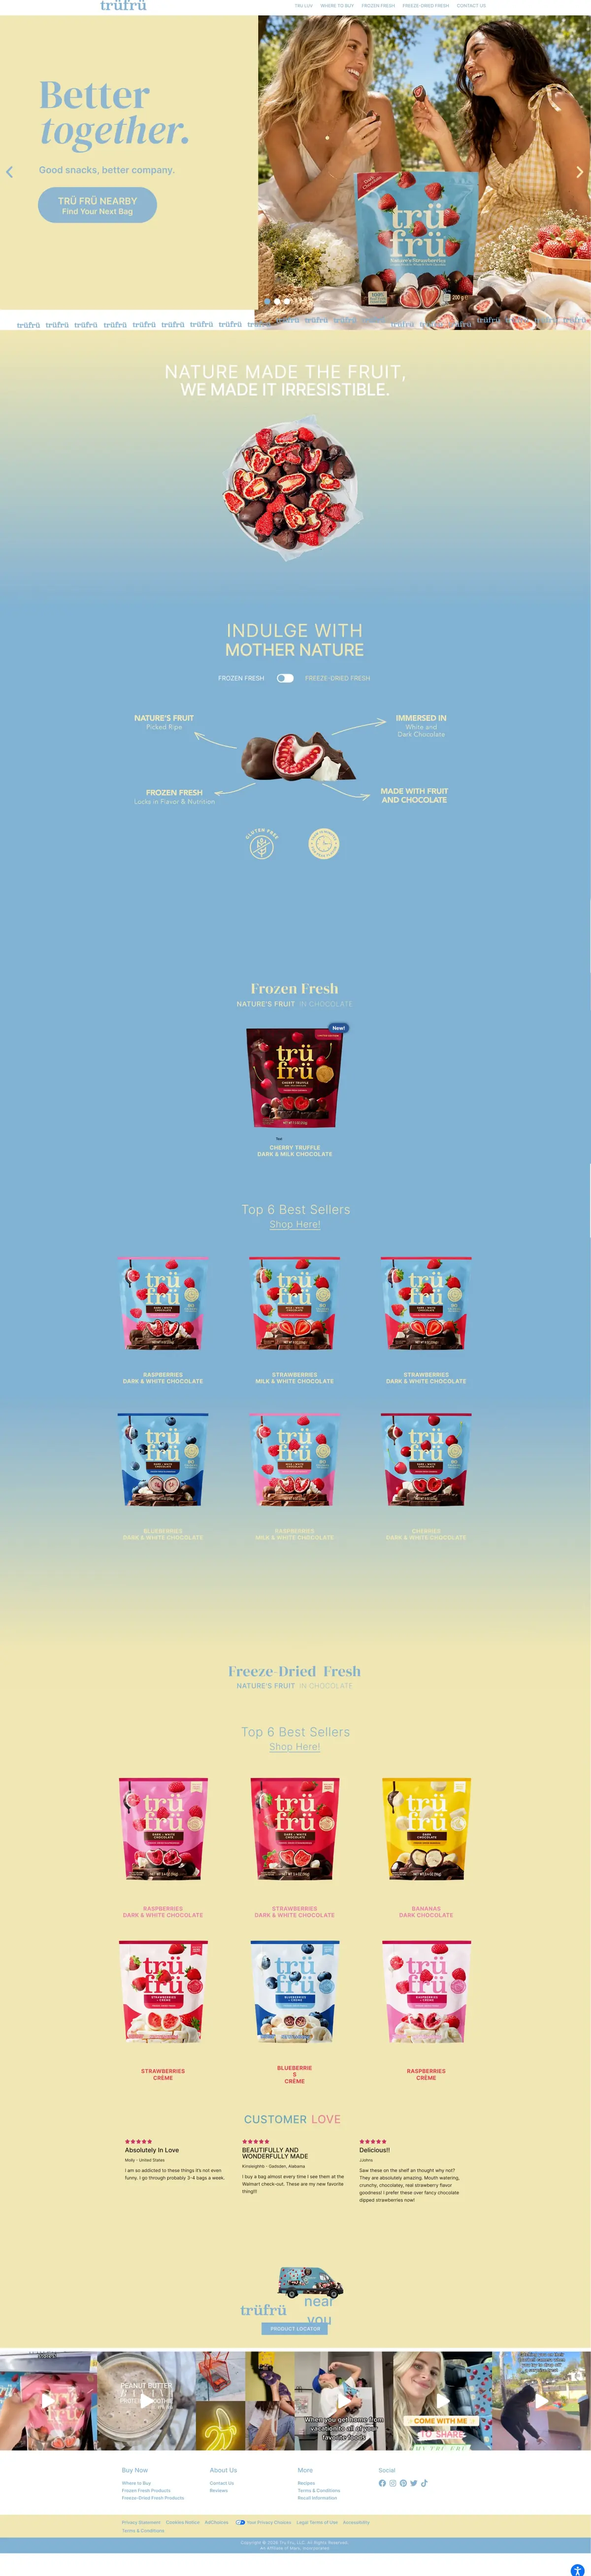
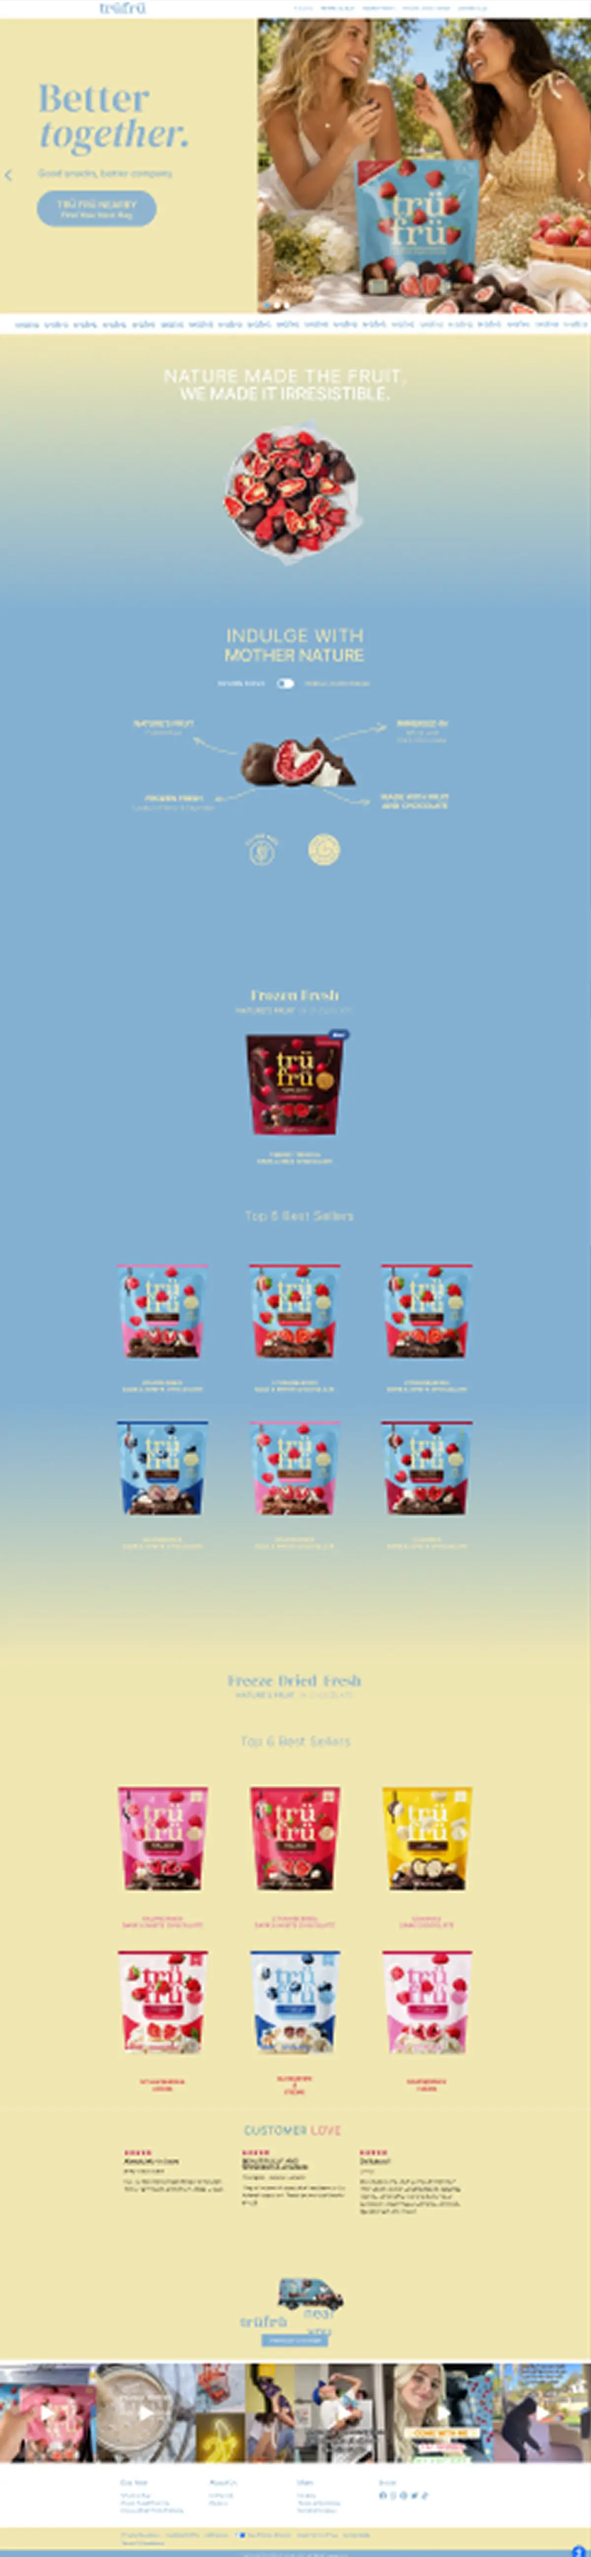
Replace TruFru screenshot and remove visual palette section from About
Claude-Session: https://claude.ai/code/session_013o6CwJQ5fvsoSN9hWGQvRM

diff --git a/app.js b/app.js
@@ -33,7 +33,7 @@ duolingo:{name:'Duolingo',centerCup:true,label:'Onboarding & learning',intro:'Ex
   'Thank you',
   'Appendix — Sources'
 ]},
-trufru:{name:'TruFru',label:'Brand & shopping',intro:'Translating a playful product into a clearer, more delicious digital experience.',focus:'Brand expression and information hierarchy',format:'Website redesign prototype',description:'A consumer product teardown and website redesign examining how product information and brand personality can work together in a digital experience.',questions:['How quickly can visitors understand the product and its appeal?','How can visual hierarchy make exploration more intuitive?'],status:'The redesign prototype has not been added yet.',original:{src:'assets/trufru-redesign/landing.webp',width:1200,height:5223,caption:'TruFru landing page',alt:'Full-page screenshot of the TruFru landing page: a “Better together” hero with a lifestyle photo, a frozen-fresh product explainer, top six best sellers for frozen and freeze-dried lines, customer reviews, a store locator, social videos, and the footer.'},notes:[['Product / vision','Premium frozen and freeze-dried snack experience; make it feel elevated and easy to shop.'],['Problem','Product discovery could feel more intentional: stronger calls to action (e.g. “shop best sellers”, “explore new flavors”) and more lifestyle visuals showing how the products fit into everyday snacking.'],['Who','Snack lovers! People looking for convenient snacks.'],['Goals','Make the product the main visual focus, improve product discovery and website navigation (keep it simple), and encourage people to buy.']]}
+trufru:{name:'TruFru',label:'Brand & shopping',intro:'Translating a playful product into a clearer, more delicious digital experience.',focus:'Brand expression and information hierarchy',format:'Website redesign prototype',description:'A consumer product teardown and website redesign examining how product information and brand personality can work together in a digital experience.',questions:['How quickly can visitors understand the product and its appeal?','How can visual hierarchy make exploration more intuitive?'],status:'The redesign prototype has not been added yet.',original:{src:'assets/trufru-redesign/landing.webp',width:1200,height:5186,caption:'TruFru landing page',alt:'Full-page screenshot of the TruFru landing page: a “Better together” hero with a lifestyle photo, a frozen-fresh product explainer, top six best sellers for frozen and freeze-dried lines, customer reviews, a store locator, social videos, and the footer.'},notes:[['Product / vision','Premium frozen and freeze-dried snack experience; make it feel elevated and easy to shop.'],['Problem','Product discovery could feel more intentional: stronger calls to action (e.g. “shop best sellers”, “explore new flavors”) and more lifestyle visuals showing how the products fit into everyday snacking.'],['Who','Snack lovers! People looking for convenient snacks.'],['Goals','Make the product the main visual focus, improve product discovery and website navigation (keep it simple), and encourage people to buy.']]}
 };
 
 const order = Object.keys(studies);
@@ -164,8 +164,7 @@ function showAbout(origin) {
   openPanel('about', origin);
   render(`<h2 class="about-title" tabindex="-1">Hi, I’m Bella Cha.<br>A taste for the <em>thoughtful.</em></h2>
     <p class="panel-intro">I look closely at the consumer products we use every day, turning design teardowns into focused redesign proposals and full prototypes.</p>
-    <p class="panel-intro">I break down onboarding, information hierarchy, and workflows using a score matrix across simplicity, consistency, and usability.</p>
-    <h3>The visual palette</h3><div class="reference-gallery">${[['cabinet','Watercolor tea cabinet'],['tea','Tea drawings'],['cafe','Sidewalk café sketch'],['book','Illustrated London book cover'],['frames','Hand-drawn gallery frames'],['landscape','Illustrated landscape']].map(([name,alt])=>`<img src="assets/optimized/${name}-reference.webp" alt="${alt}" width="360" height="240" loading="lazy" decoding="async">`).join('')}</div>`, 'About Bella Cha opened.');
+    <p class="panel-intro">I break down onboarding, information hierarchy, and workflows using a score matrix across simplicity, consistency, and usability.</p>`, 'About Bella Cha opened.');
 }
 function showContact(origin) {
   selected = null;

diff --git a/README.md b/README.md
@@ -16,7 +16,7 @@ Open http://localhost:5173. Deploy dist/ to a static host. Artwork and fonts are
 
 ## Navigation and materials
 
-Select a study in the text index or through its branded cup. Both open the same inline reading panel. Previous/next navigate all four studies; Back to collection or Escape restores the originating focus. Hover/focus on an index entry cues its corresponding cup. About contains Bella’s introduction and the six earlier reference images. Email and LinkedIn open explicit contact placeholders until real destinations are supplied. The Duolingo study shows Bella’s gamification research deck as a slide carousel (assets/duolingo-deck). The Disney+ study links to Bella’s Figma redesign prototype and shows the Disney+ landing page on the left (assets/disney-redesign). The Beli study shows the Taste First case study deck as a slide carousel (assets/beli-deck). The TruFru study shows its landing page on the left (assets/trufru-redesign) and Bella’s redesign notes as a sticky note; its prototype and the résumé remain placeholders. No scores, results, or contact details have been invented.
+Select a study in the text index or through its branded cup. Both open the same inline reading panel. Previous/next navigate all four studies; Back to collection or Escape restores the originating focus. Hover/focus on an index entry cues its corresponding cup. About contains Bella’s introduction. Email and LinkedIn open explicit contact placeholders until real destinations are supplied. The Duolingo study shows Bella’s gamification research deck as a slide carousel (assets/duolingo-deck). The Disney+ study links to Bella’s Figma redesign prototype and shows the Disney+ landing page on the left (assets/disney-redesign). The Beli study shows the Taste First case study deck as a slide carousel (assets/beli-deck). The TruFru study shows its landing page on the left (assets/trufru-redesign) and Bella’s redesign notes as a sticky note; its prototype and the résumé remain placeholders. No scores, results, or contact details have been invented.
 
 ## Artwork
 
